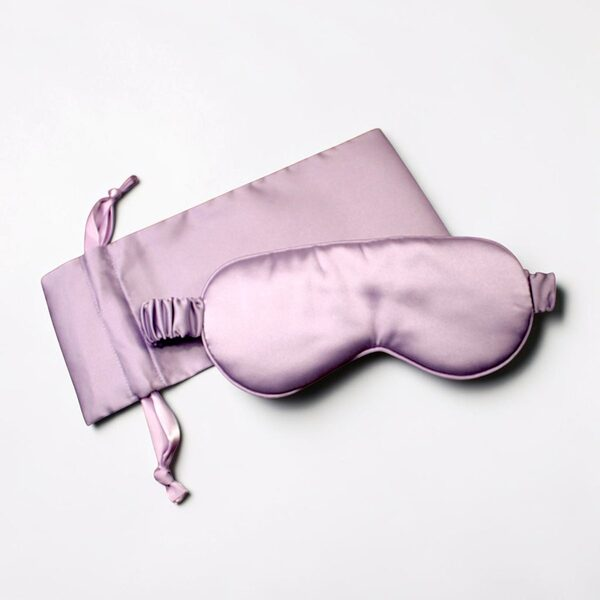
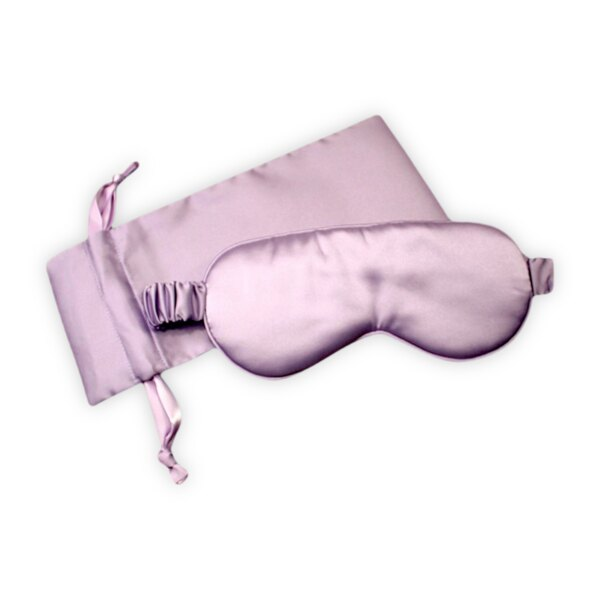
v270: portal product photos unified — cut-outs on white, matching size and shadow
- All nine Lavender Fields photos and the three purpl cans are now the
  product cut out of its original photo, centred on white at a matching
  size with the same soft shadow. Same file names, so no page logic
  changed; the photo tile behind them is white with a hairline divider.

Claude-Session: https://claude.ai/code/session_01GpvpSyx5MTKYagrAMRXCMf

Changed region(s): [[0.06, 0.18, 0.96, 0.84], [0.78, 0.93, 1.0, 1.0]]

diff --git a/public/order.html b/public/order.html
@@ -191,7 +191,7 @@ input:focus,textarea:focus,select:focus{outline:none;border-color:var(--purpl);b
 .pcard{background:#fff;border:1px solid var(--border);border-radius:12px;overflow:hidden;display:flex;flex-direction:column}
 .pcard.active{border-color:var(--purpl);box-shadow:0 0 0 1px var(--purpl)}
 .pcard.soon{opacity:.72}
-.pimg{width:100%;aspect-ratio:1/1;object-fit:cover;background:var(--purpl-soft);display:block}
+.pimg{width:100%;aspect-ratio:1/1;object-fit:cover;background:#fff;display:block;border-bottom:1px solid var(--border)}
 .pimg.tall{aspect-ratio:4/5}
 .pimg.pimg-fallback{object-fit:contain;padding:28px}
 .pbody{padding:12px;display:flex;flex-direction:column;gap:8px;flex-grow:1}

diff --git a/public/app.js b/public/app.js
@@ -14,7 +14,7 @@ const PURPL_DIRECT_PER_CASE = PURPL_WHOLESALE_PER_CAN * CANS_PER_CASE; // $27.60
 
 // Bump together with sw.js CACHE on every deploy. Shown in the sidebar so
 // "am I running the new code?" is answerable at a glance.
-const APP_VERSION = 'v269';
+const APP_VERSION = 'v270';
 (function(){ const el = document.getElementById('app-version'); if (el) el.textContent = 'purpl CRM ' + APP_VERSION; })();
 
 function _costs() { return DB?.obj?.('costs', {cogs:{}, target_margin:0.60, overhead_monthly:1200}) || {cogs:{}, target_margin:0.60, overhead_monthly:1200}; }

diff --git a/public/sw.js b/public/sw.js
@@ -1,5 +1,5 @@
 // purpl CRM Service Worker — offline shell caching
-const CACHE = 'purpl-crm-v269'; // bump on every deploy
+const CACHE = 'purpl-crm-v270'; // bump on every deploy
 const SHELL = [
   '/',
   '/index.html',
